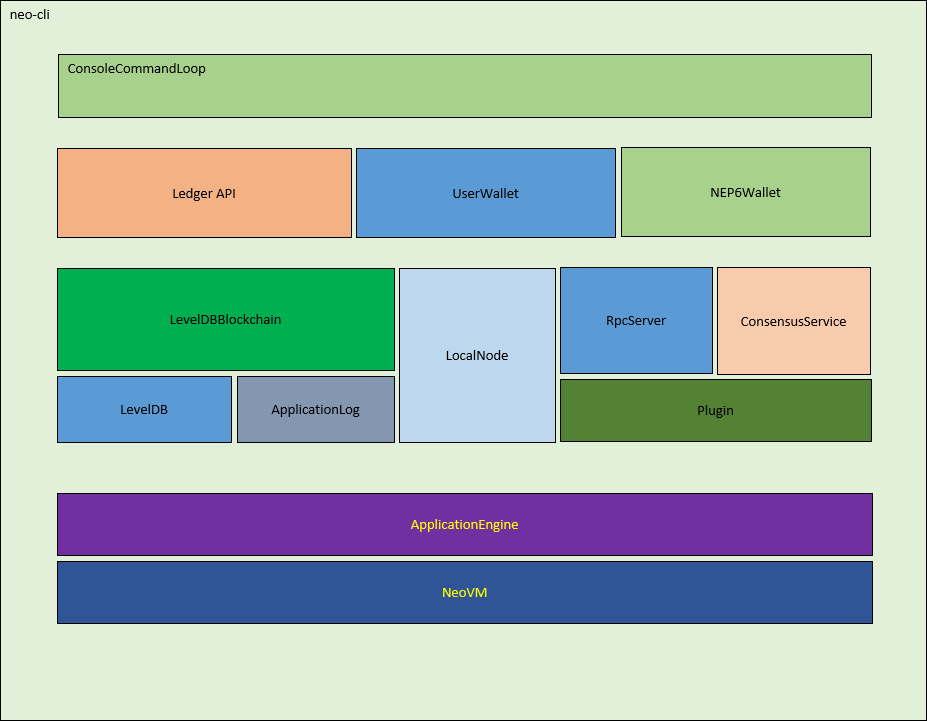
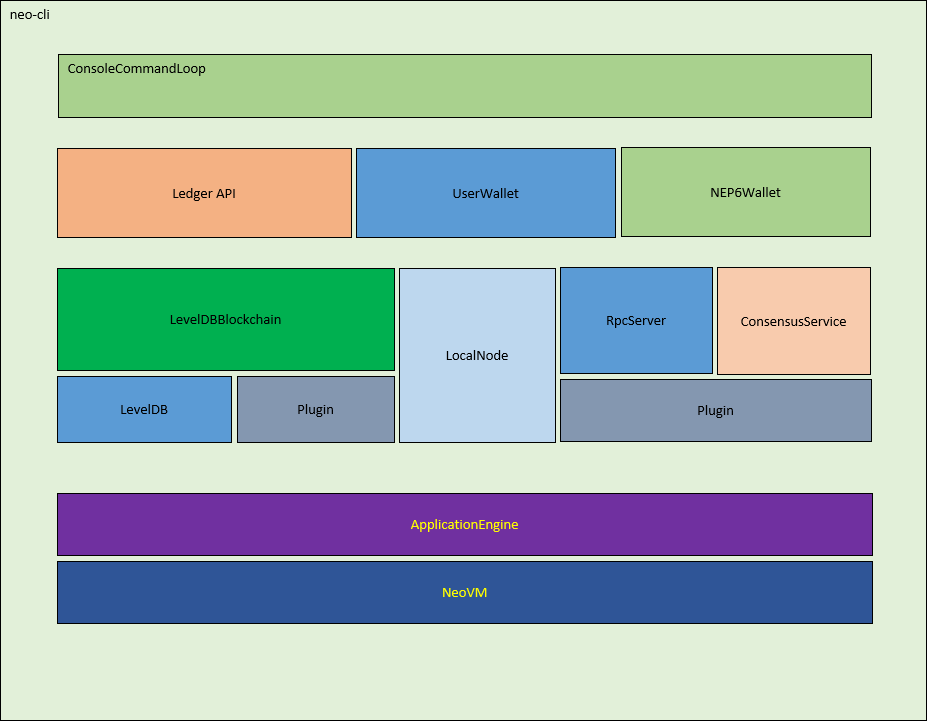
neo_cli_structure in progress

Changed region(s): [[0.6041, 0.5187, 0.9666, 0.6103], [0.302, 0.5492, 0.3927, 0.5798]]

diff --git a/Documentation/articles/neo_cli_structure.md b/Documentation/articles/neo_cli_structure.md
@@ -1,49 +1,117 @@
+# Neo-cli 的结构
+
+---
+
 ## 认识 neo-cli
 
 neo 是一个基于点对点网络的区块链系统。它提供基于 UTXO 模型的数字资产记账功能，以及一个基于 neo 虚拟机的智能合约的执行环境。
 这里描述这个网络中节点程序 neo-cli 的整体结构和基本行为。
+
+---
 
 ## 整体结构
 neo 的整体结构如下图。（由于版本升级，部分结构可能会有变化。）
 
 ![neo-cli structure](../images/neo_cli_structure/neo-cli.png)
 
-#### neo-cli命令行
+### neo-cli命令行
 neo-cli 是一个命令行程序。通过命令行控制台提供与区块链交互的基本功能。可以通过下述链接找到 neo-cli 的命令的详细说明。
 
 <http://docs.neo.org/en-us/node/cli/cli.html>
 
 (如果发现有死链接，请联系 <feedback@neo.org>)
 
-#### 账本 API
+### 账本 API
+账本API定义了UTXO模型的基本数据类型，包括交易，区块，记账人等基础数据结构，细节在后续章节中介绍。或者请查看API文档了解细节。
+
+### 钱包
+neo的官方实现提供两种格式的钱包，其中一种是sqlite数据库格式的钱包。另一种是NEP-6钱包。sqlite格式钱包的优点是性能相对较好，缺点是适用的平台不如 NEP-6 钱包更广泛。
+
+### LevelDBBlockchain
+基于leveldb实现的区块链数据管理模块。向其它部分提供区块链数据的存储和查询服务。
+
+### LocalNode
+节点的网络通信的模块。负责与网络中的其它节点交换信息。细节将在后续章节中介绍。
+
+### RpcServer
+一个向外提供 RPC 调用接口的模块。可以通过下述链接查看 RPC 编程接口的细节。
+
+<http://docs.neo.org/en-us/node/cli/2.9.0/api.html>
+
+(如果发现有死链接，请联系 <feedback@neo.org>)
+
+### ConsensusService
+在 neo 的网络中，只有共识节点需要启动共识服务。共识节点通过点对点网络与其它共识节点交换信息，完成区块链中生成新的区块的过程。
+细节将在后续章节中介绍。
+
+### Plugin
+通过插件的形式实现区块链中一些特定模块的逻辑，方便特定功能的定制和调试。包括下述四个种类。
+ - ILogPlugin : 智能合约的执行结果存储插件。
+ - IPolicyPlugin : 生成新区块时交易的排序策略插件。
+ - IRpcPlugin : 执行RPC调用的插件。
+ - IPersistencePlugin : TODO
+
+### NeoVM
+Neo 实现的虚拟机。用来执行验证脚本和智能合约。细节将在后续章节中介绍。
+ApplicationEngine 是对 Neo VM 的一层封装。Neo VM 被设计成一个独立的模块。可以在区块链之外部署。而 ApplicationEngine 与区块链本身的联系更加紧密。
+
+---
+
+## 配置文件和其它文件
+### config.json
+```code
+{
+  "ApplicationConfiguration": {
+    "Paths": {
+      "Chain": "Chain_{0}",
+      "Index": "Index_{0}"
+    },
+    "P2P": {
+      "Port": 10333,
+      "WsPort": 10334
+    },
+    "RPC": {
+      "BindAddress": "127.0.0.1",
+      "Port": 10332,
+      "SslCert": "",
+      "SslCertPassword": ""
+    },
+    "UnlockWallet": {
+      "Path": "",
+      "Password": "",
+      "StartConsensus": false,
+      "IsActive": false
+    }
+  }
+}
+```
+属性说明：
+
+ - **Paths/Chain** : 区块链数据库的存储目录前缀。存储目录的后缀是Magic数的8位16进制表示。Magic数将在后续提及。
+ - **Paths/Index** : 钱包索引的存储目录前缀。
+ - **P2P/Port** : 网络节点之间 TCP/IP 协议连接的监听端口号。
+ - **P2P/WsPort** : 网络节点之间 WebSocket 协议连接的监听端口号。
+ - **RPC/BindAddress** : JSON-RPC 服务的监听 IP 地址。
+ - **RPC/Port** : JSON-RPC 服务的监听端口号。
+ - **RPC/SslCert** : JSON-RPC 服务的安全连接的认证。默认为空时，不使用安全连接。
+ - **RPC/SslCertPassword** : JSON-RPC 服务的安全连接的密码。默认为空时，不使用安全连接。
+ - **UnlockWallet/IsActive** : 启动网络节点时是否自动解锁钱包。
+ - **UnlockWallet/Path** : 启动网络节点时解锁钱包的钱包文件地址。
+ - **UnlockWallet/Password** : 启动网络节点时解锁钱包的密码。
+ - **UnlockWallet/StartConsensus** : 启动网络节点时是否自动开始共识。自动开始共识依赖于自动解锁钱包。
+
+config.mainnet.json 和 config.testnet.json 是两个备份文件，分别存放主网和测试网的配置文件。
 
 
-#### 用户钱包
+### protocol.json
 
 
-#### NEP-6钱包
-
-#### LevelDBBlockchain
-
-#### ApplicationLog
-
-#### LocalNode
-
-#### RpcServer
-
-#### ConsensusService
-
-#### Plugin
-
-#### NeoVM
-
-#### ApplicationEngine
+### peers.dat
 
 
+### error.log
 
-## 介绍配置文件
-
-
+---
 
 ## 启动的基本过程
 
